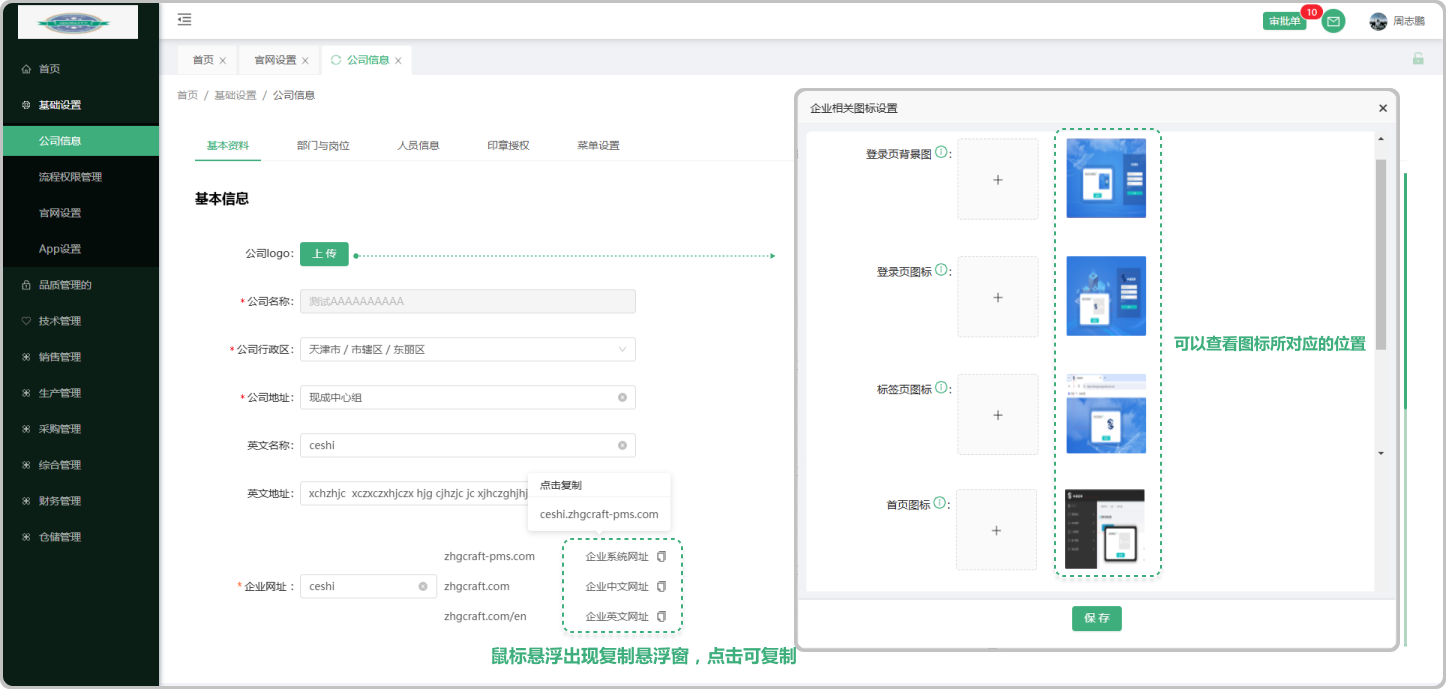
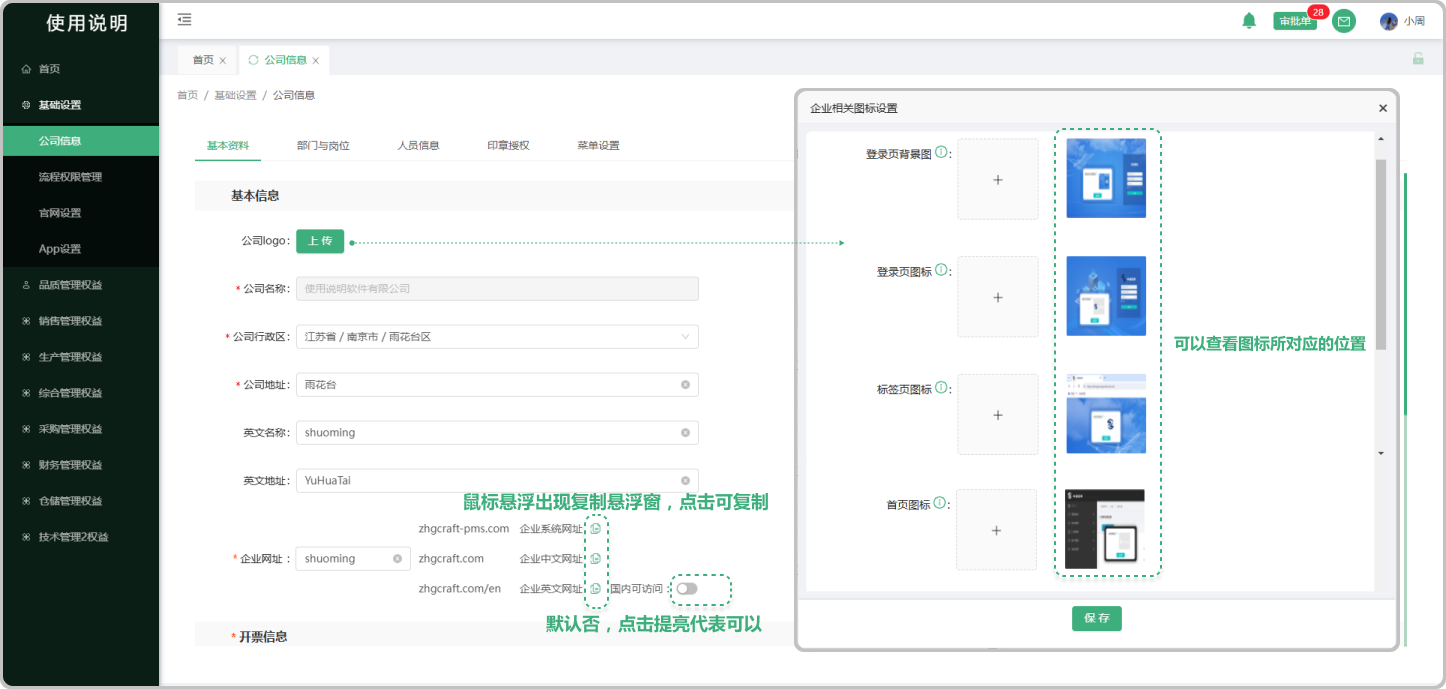
jintianxiugai

diff --git a/docs/基础设置/公司信息/基本资料.md b/docs/基础设置/公司信息/基本资料.md
@@ -3,12 +3,34 @@
 
 > 基本资料归属于系统的基本信息填写：分为 基本信息、开票信息、收款信息
 
-#### 1. 如图所示：
-* 图1中在点击公司logo上传保存成功还需下滑到页面底层在次点击保存即可
-* 图2中可以添加 开户银行以及账号 和收款信息 （可以添加多个）
-* 企业网址:点击后面的图标可复制企业系统的网址 (指的是所登录的这个系统的网址) 和 企业中文官网的网址 (指的是这个系统官网的网址)
+#### 1.基本信息
+
+* 点击公司logo上传保存成功还需下滑到页面底层在次点击保存即可
+
+ -上传时可点击弹窗中的感叹号提示，查看所上传照片的上传位置
+
+* 可编辑输入企业网址
+
+ -企业系统网址：（系统的网址）根据前面输入的企业网址+后面固定的网址所生成，可点击复制图标进行复制
+
+ -企业中文网址：（中文官网的网址）根据前面输入的企业网址+后面固定的网址所生成，可点击复制图标进行复制
+
+ -企业英文网址：（英文官网的网址）根据前面输入的企业网址+后面固定的网址所生成，可点击复制图标进行复制
+
+   -默认的英文网址国内用户是不可以访问的，点击按钮提亮，代表国内用户可访问国外网址
 
 ![如图所示](../../file/jbxx.png)
+
+
+#### 2.开票信息
+
+* 可以添加开户银行以及账号
+
+  -用于签章合同时所带的开户银行、银行账号
+
+#### 3.收款信息
+
+* 可添加需要收款的开户银行以及账号（支持添加多个）
 
 
 ![如图所示](../../file/jbxx1.png)

diff --git a/docs/基础设置/公司信息/部门岗位.md b/docs/基础设置/公司信息/部门岗位.md
@@ -3,7 +3,7 @@
 
 > 部门与岗位是组织结构的两个核心组成部分，它们共同构成了组织的基本框架，确保组织能够高效、有序地运作。部门：是组织内部按照业务功能或管理职能划分的单元。每个部门都承担着特定的职责和任务，以确保组织整体目标的实现。  岗位：是组织内部为了完成特定任务而设置的工作职位。每个岗位都有明确的职责、权限和工作要求，以确保部门目标的实现。
 
-#### 1. 如图所示： 添加部门
+#### 1.添加部门
 
 * 添加部门：点击可添加新的部门
 * 添加子部门：在部门里可以添加它的子部门，子部门接着也可以添加它的子部门（以此类推）
@@ -12,7 +12,7 @@
 
 ![如图所示](../../file/tjbm.png)
 
-#### 2. 如图所示：点击岗位详情跳出弹窗进行下一步的 “添加岗位”
+#### 2.点击岗位详情跳出弹窗进行下一步的 “添加岗位”
 > 点击岗位详情弹出弹窗进行编辑，可在弹窗中添加新的岗位（可编辑、删除），可在菜单栏中勾选当前岗位需要使用的功能，支持预览所勾选的字段，如果页面出现 "当前页面展示的数据已配置好"的情况，说明是静态页面，不需要进行配置
 
 * 添加岗位：可添加新的岗位（添加的岗位均为部门负责人下平级岗位）（支持删除、编辑）

diff --git a/docs/基础设置/公司信息/印章授权.md b/docs/基础设置/公司信息/印章授权.md
@@ -3,17 +3,17 @@
 
 > 印章授权是指授予企业员工使用某企业印章的权限，系统将分为合同章、电子合同章、业务章
 
-#### 1. 如图所示：
+#### 1.合同章设置
 * 输入合同章备案号（必填） 可以自由设置印章的大小 可选是否有五角星， 勾选同意法律条款即可预览印章 可以保存。在保存之后页面上会新增一个 “是否启用”（不启用情况下是无法使用的）会新增一个印章授权（点击添加可以选择岗位、员工的印章使用权限）
 
 ![如图所示](../../file/htz.png)
 
-#### 2. 如图所示：
+#### 2.电子合同章设置
 * 输入电子合同章备案号（必填） 可以自由设置印章的大小，可选 是否有五角星， 勾选同意法律条款即可预览印章 可保存，在保存之后页面上会新增一个 “是否启用”（不启用情况下是无法使用的）会新增一个印章授权（点击添加可以选择岗位、员工的印章使用权限）
 
 ![如图所示](../../file/dzhtz.png)
 
-#### 3. 如图所示：
+#### 3.业务章设置
 * 点击新增业务章，输入业务章名称（必填）  可选圆形章、椭圆形章、菱形章、图片制章，可选是否有五角星，可以自由设置印章的大小  可点击添加多个业务章 可点击预览、可点击删除  最后保存即可
 
 ![如图所示](../../file/ywz.png)

diff --git a/docs/基础设置/官网/产品展示.md b/docs/基础设置/官网/产品展示.md
@@ -1,7 +1,7 @@
 # 产品展示
 
 > 产品信息:分为分类、产品，在产品信息中可以去同步系统的产品，包括修改、展示、发布、查看、新增、批量编辑
-#### 1. 如图所示：产品分类
+#### 1.产品分类
 
 * 选择产品：旁边红色数字提示显示的是有多少个产品需要同步，点击打开弹窗可选择产品同步，左边表格代表的是系统的产品信息，左边表格代表的是官网已发布的产品信息，选中左边的产品会对应到右边官网已发布的产品进行同步，也可点击下方的全选一次性进行同步，最后点击确认即可
 * 系列：在分类页面中左边的系列中可双击系列的名称，打开弹窗可更改产品名称和转移产品位置（上面索搜框可选择调整产品的位置。下面的输入框可更改产品的名称）
@@ -15,7 +15,7 @@
 
 ![如图所示](../../file/gw-cpxxfl.png)
 
-#### 2. 如图所示：产品
+#### 2.产品
 
 * 新增产品：点击新增产品可打开弹窗编写产品内容，可直接选择展示或者发布（也可不选择到外面选择展示或者发布）
 * 批量编辑：点击批量编辑可打开弹窗批量编辑产品，选择任意产品范围（系列、名称、型号）至少维护一项，产品系列的选择框（是指可以更换产品系列，可更换到选中的系列中）

diff --git a/docs/基础设置/官网/基本信息.md b/docs/基础设置/官网/基本信息.md
@@ -2,7 +2,7 @@
 
 > 官网基本信息分为、产品展示、公司介绍、联系我们、招贤纳士，在内部编辑（显示可编辑文字的均可编辑）完点击 “保存” 可同步官网
 
-#### 1. 如图所示：产品展示
+#### 1.产品展示
 * 产品展示：点击上方的产品展示可文字双击可编辑
 * 鼠标悬浮在banner横幅图上面显示图标可更换图片和删除（支持上传多个banner图
 * 点击下方产品：可查看产品的详细信息
@@ -11,19 +11,19 @@
 
 ![如图所示](../../file/cpzs.png)
 
-#### 2. 如图所示：公司介绍
+#### 2.公司介绍
 * 公司介绍：点击可编辑替换名称
 * 上传相关证书：点击可上传公司的相关证书
 
 
 ![如图所示](../../file/gsjs.png)
 
-#### 3. 如图所示：联系我们
+#### 3.联系我们
 * 联系我们：可输入联系电话、联系邮箱、公司地址
 
 ![如图所示](../../file/lxwm.png)
 
-#### 4. 如图所示：招贤纳士
+#### 4.招贤纳士
 
 * 招贤纳士：可编辑输入所需的职位描述、入职要求
 * 鼠标悬浮在banner横幅图上面显示图标可更换图片

diff --git a/docs/技术管理/工装设备.md b/docs/技术管理/工装设备.md
@@ -37,3 +37,38 @@
   -设备履历图标旁边的数字代表里面有多少条数据
 
 ![如图所示](../file/jsgzsb3.png )
+
+#### 6.保养
+
+* 针对于这一个工设备的保养
+
+* 保养完成以后可编辑或者报废、也可在设备履历中结束保养
+
+* 在设备履历中可查看保养的数据（可结束保养）
+
+![如图所示](../file/jsgzsb4.png )
+
+#### 7.维修
+
+* 针对于这一个工设备的维修
+
+* 维修完成以后可编辑或者报废、也可在设备履历中结束维修
+
+* 在设备履历中可查看维修的数据（可结束维修）
+
+![如图所示](../file/jsgzsb5.png )
+
+#### 8.计量定检
+
+* 针对于这一个工设备的计量定检
+
+* 计量定检完成以后可编辑或者报废、也可在设备履历中结束计量定检
+
+* 在设备履历中可查看计量定检的数据（可结束计量定检）
+
+![如图所示](../file/jsgzsb6.png )
+
+
+
+
+

diff --git a/docs/基础设置/公司信息/菜单设置.md b/docs/基础设置/公司信息/菜单设置.md
@@ -2,7 +2,23 @@
 
 > 菜单设置是系统菜单栏编辑的地方，支持换图标、添加二级菜单和修改菜单名称
 
-#### 1. 如图所示：
-* 按照相对应的菜单进行更改或者新增二级菜单（可多增加、可换图标）需要注意的是编辑完以后需要 “保存”（保存会退出系统重新登录）
+#### 1. 设置图标
+ 
+* 点击设置图标按钮，弹出图标库，可设置相对应的页面图标
+
+* 可更改菜单栏的名称
+ 
+* 更改或者添加过的信息保存之后系统会“退出登录”重新进来显示已更改的信息
+
+#### 2.添加二级菜单
+
+* 点击添加二级菜单按钮可添加二级菜单
+
+ -可输入自定义二级菜单名称
+
+ -可点击小笔图标更改菜单名称
+
+ -把所添加的二级菜单拖拽到虚线内，可设置为二级菜单（移除框内代表删除二级菜单）
+
 
 ![如图所示](../../file/cdsz.png)

diff --git a/docs/基础设置/流程权限管理.md b/docs/基础设置/流程权限管理.md
@@ -4,7 +4,8 @@
 * 定义：流程权限管理是指根据系统设置的安全规则或策略，对用户访问和操作特定系统流程进行限制和控制的过程。
 *  目的：确保用户只能访问和操作其被授权的流程，保护系统数据的安全性和完整性，防止未经授权的访问和操作。
 
-#### 1. 如图所示：
+#### 1. 配置流程权限
+
 * 可以搜索名称或者选择筛选页面能够快速查找到需要分配的权限设置，权限可以进行编辑更改,如果用户没有这个流程的权限，就没有办法操作这个流程，就没有操作这个流程的权限,流程又分为流程节点，如果是审批的节点有权限只能进行审批，如果有申请权限只可以申请
 
 

diff --git a/docs/基础设置/App设置.md b/docs/基础设置/App设置.md
@@ -2,8 +2,11 @@
 
 > app设置是指用户可以在系统中设置app的logo和app的启动页图片
 
-#### 1. 如图所示：
+#### 1. 上传applogo / app启动页图片
+
 * 可以设置app的logo 和app启动页的图片,建议分辨率通常指的是在某个特定情境或应用中，为了达到最佳显示效果或性能，推荐使用的分辨率设置。
+
+* 点击页面的感叹号提示，可预览查看所上传照片的位置
 
 ![如图所示](../file/app.png)
 
